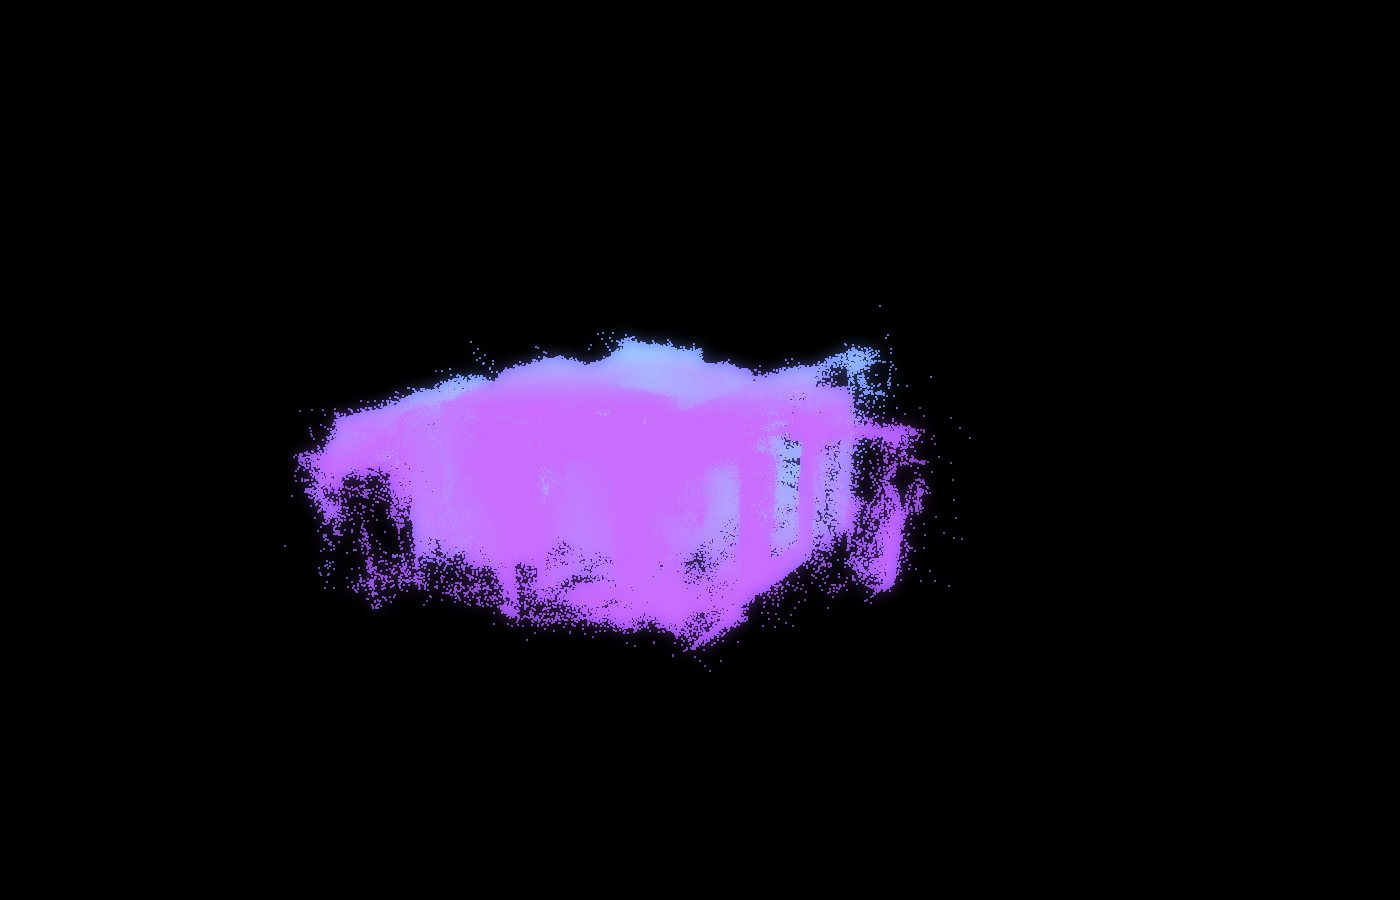
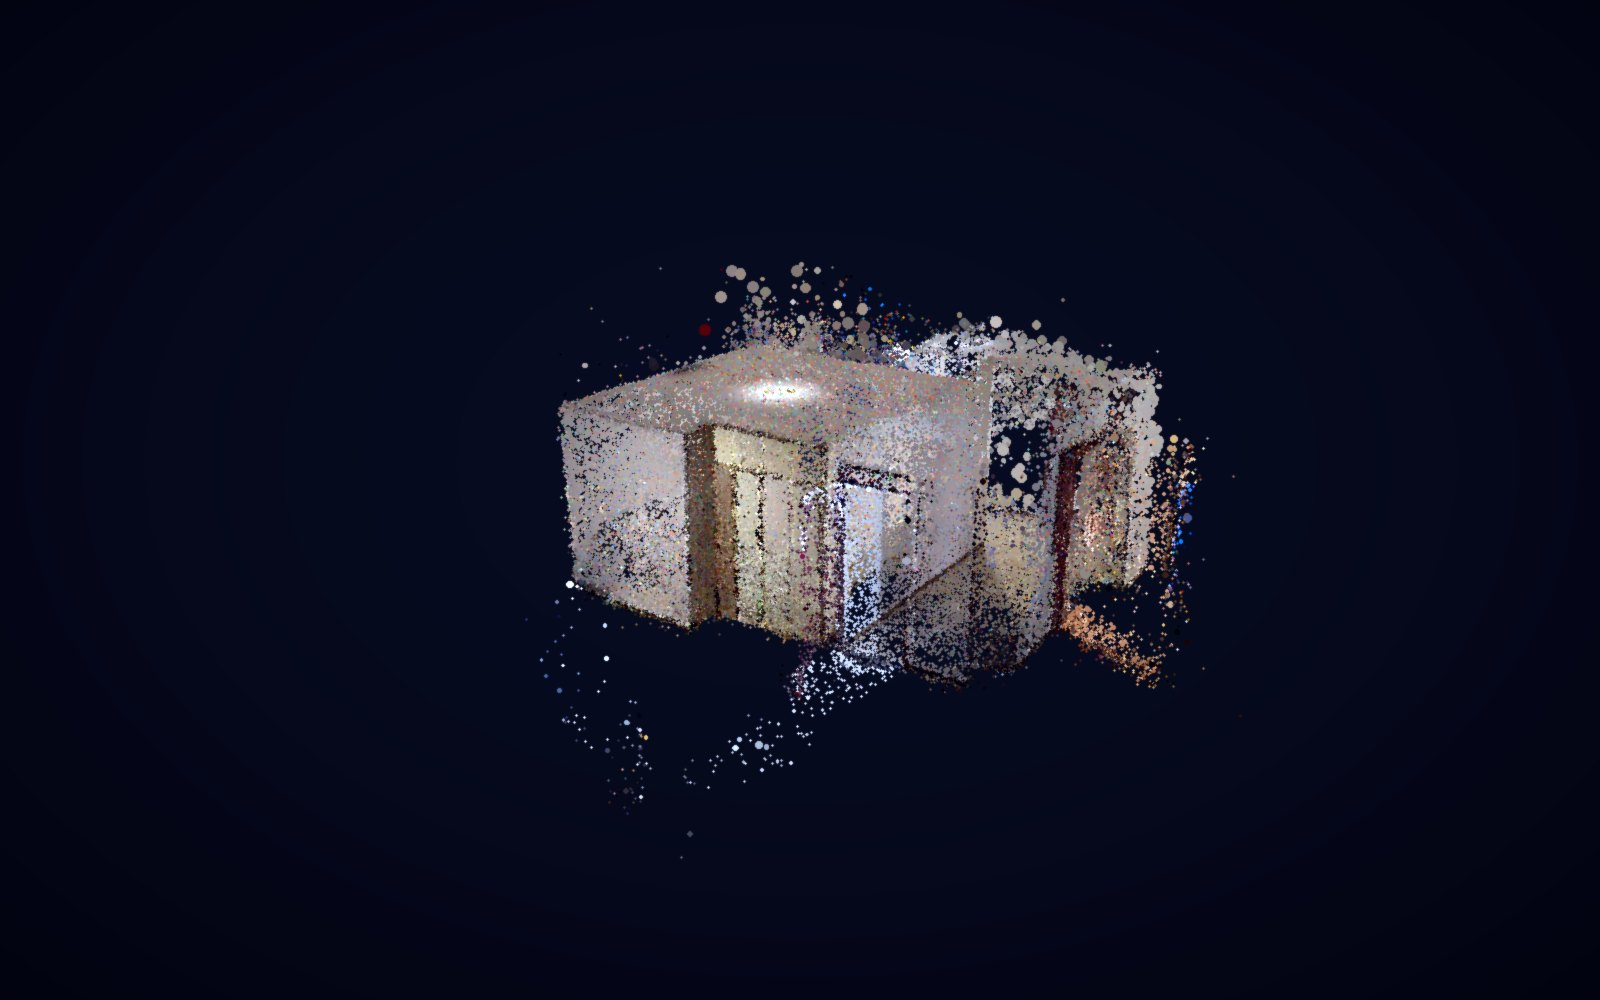
fix(home): SPZ v2 是 RUB/Three.js Y-up，去掉错误的 180 度翻转；预览图改为正立真实渲染，增加翻转开关

diff --git a/home/index.html b/home/index.html
@@ -174,7 +174,7 @@ kbd{font-family:var(--mono);font-size:9.5px;font-weight:700;color:var(--ink-2);b
 
 /* 加载层 */
 .load{position:absolute;inset:0;z-index:6;
-  background:linear-gradient(rgba(6,8,16,.74),rgba(6,8,16,.84)),url(./assets/preview.jpg) center/cover no-repeat;
+  background:linear-gradient(rgba(6,8,16,.58),rgba(6,8,16,.72)),url(./assets/preview.jpg) center/cover no-repeat;
   display:flex;
   flex-direction:column;align-items:center;justify-content:center;gap:0;
   transition:opacity .6s ease,visibility .6s}
@@ -206,7 +206,7 @@ kbd{font-family:var(--mono);font-size:9.5px;font-weight:700;color:var(--ink-2);b
 
 /* 错误 */
 .err{position:absolute;inset:0;z-index:7;display:none;align-items:center;justify-content:center;
-  background:linear-gradient(rgba(6,8,16,.78),rgba(6,8,16,.9)),url(./assets/preview.jpg) center/cover no-repeat;
+  background:linear-gradient(rgba(6,8,16,.68),rgba(6,8,16,.84)),url(./assets/preview.jpg) center/cover no-repeat;
   padding:24px;text-align:center}
 .err.on{display:flex}
 .err div{max-width:380px}
@@ -268,6 +268,7 @@ kbd{font-family:var(--mono);font-size:9.5px;font-weight:700;color:var(--ink-2);b
           <div class="r"><span>文件体积</span><b>29.9 MB</b></div>
           <div class="r"><span>坐标精度</span><b>24-bit / 12 frac</b></div>
           <div class="r"><span>来源</span><b>Chisel Scan</b></div>
+          <div class="r"><span>坐标系</span><b>RUB / Y-up</b></div>
         </div>
       </section>
 
@@ -297,6 +298,7 @@ kbd{font-family:var(--mono);font-size:9.5px;font-weight:700;color:var(--ink-2);b
           <div class="key"><span class="cap">前后左右移动</span><kbd>W A S D</kbd></div>
           <div class="key"><span class="cap">回到初始视角</span><kbd>R</kbd></div>
           <div class="key"><span class="cap">全屏查看</span><kbd>F</kbd></div>
+          <div class="key"><span class="cap">上下翻转（备用）</span><kbd>V</kbd></div>
         </div>
       </section>
 
@@ -337,6 +339,8 @@ kbd{font-family:var(--mono);font-size:9.5px;font-weight:700;color:var(--ink-2);b
           <label class="tog"><input type="checkbox" id="spin" checked>自转</label>
           <span class="div"></span>
           <label class="tog"><input type="checkbox" id="grid">网格</label>
+          <span class="div"></span>
+          <label class="tog"><input type="checkbox" id="flip">上下翻转</label>
           <span class="div"></span>
           <span class="spd">速度 <input type="range" id="speed" min="0.1" max="2" step="0.1" value="0.4"></span>
         </div>
@@ -427,11 +431,13 @@ controls.autoRotate = true;
 controls.autoRotateSpeed = 0.4;
 controls.target.set(0, 0, 0);
 
-/* 依据 spz 包围盒中心把场景摆到原点 */
+/* SPZ v2 默认坐标系是 RUB (Right-Up-Back)，也就是 Three.js 坐标系，Y 已经是上方向。
+   这份 Chisel 导出的文件没有 coordinate-system 扩展，因此不做任何旋转，
+   只把包围盒中心平移到原点。 */
 const BBOX_CENTER = new THREE.Vector3(1.1354, 1.6389, 0.9126);
-const R180X = new THREE.Quaternion(1, 0, 0, 0);       // SPZ 通常是 Y-down
-const rotatedCenter = BBOX_CENTER.clone().applyQuaternion(R180X);
-const meshOffset = rotatedCenter.clone().negate();
+const meshOffset = BBOX_CENTER.clone().negate();
+const FLIP_X = new THREE.Quaternion(1, 0, 0, 0);   // 仅供「上下翻转」开关使用
+let splatMesh = null, flipped = false;
 
 /* 坐标网格（默认关闭） */
 const grid = new THREE.GridHelper(20, 20, 0x4b63f0, 0x252b44);
@@ -482,6 +488,7 @@ addEventListener('keydown', e => {
   if(MOVE_KEYS.includes(e.code)){ keys[e.code] = true; if(!isMobile) e.preventDefault(); }
   if(e.code === 'KeyR'){ flyTo('orbit'); }
   if(e.code === 'KeyF'){ toggleFull(); }
+  if(e.code === 'KeyV'){ setFlip(!flipped); document.getElementById('flip').checked = flipped; }
 });
 addEventListener('keyup', e => { keys[e.code] = false; });
 addEventListener('blur', () => MOVE_KEYS.forEach(k => keys[k] = false));
@@ -517,6 +524,18 @@ document.getElementById('grid').addEventListener('change', e => { grid.visible =
 document.getElementById('speed').addEventListener('input', e => {
   controls.autoRotateSpeed = parseFloat(e.target.value);
 });
+/* 默认就是数据本身的朝向；这个开关只用于极少数导出方向相反的扫描件 */
+function setFlip(on){
+  flipped = on;
+  if(!splatMesh) return;
+  splatMesh.quaternion.copy(on ? FLIP_X : new THREE.Quaternion());
+  splatMesh.position.copy(on
+    ? BBOX_CENTER.clone().applyQuaternion(FLIP_X).negate()
+    : meshOffset);
+  splatMesh.updateMatrixWorld(true);
+  grid.position.y = on ? 2.45 : -2.45;
+}
+document.getElementById('flip').addEventListener('change', e => setFlip(e.target.checked));
 function toggleFull(){
   if(document.fullscreenElement) document.exitFullscreen();
   else stage.requestFullscreen && stage.requestFullscreen();
@@ -580,9 +599,10 @@ async function loadScene(){
       loadEl.classList.add('done');
     }
   });
-  mesh.quaternion.copy(R180X);
-  mesh.position.copy(meshOffset);
+  splatMesh = mesh;
+  mesh.position.copy(meshOffset);   /* 不旋转：SPZ v2 已是 Three.js Y-up */
   scene.add(mesh);
+  if(flipped) setFlip(true);
   if(mesh.initialized && mesh.initialized.catch){
     mesh.initialized.catch(e => fail('点云解码失败：' + (e && e.message ? e.message : '未知错误') + '。请刷新重试。'));
   }
